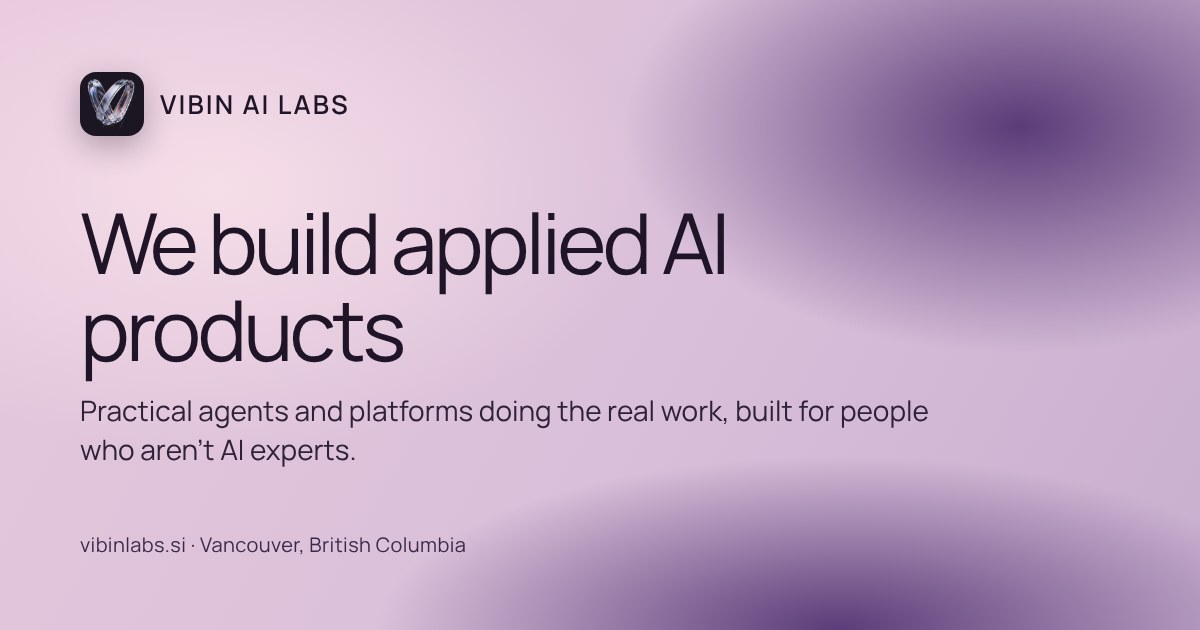
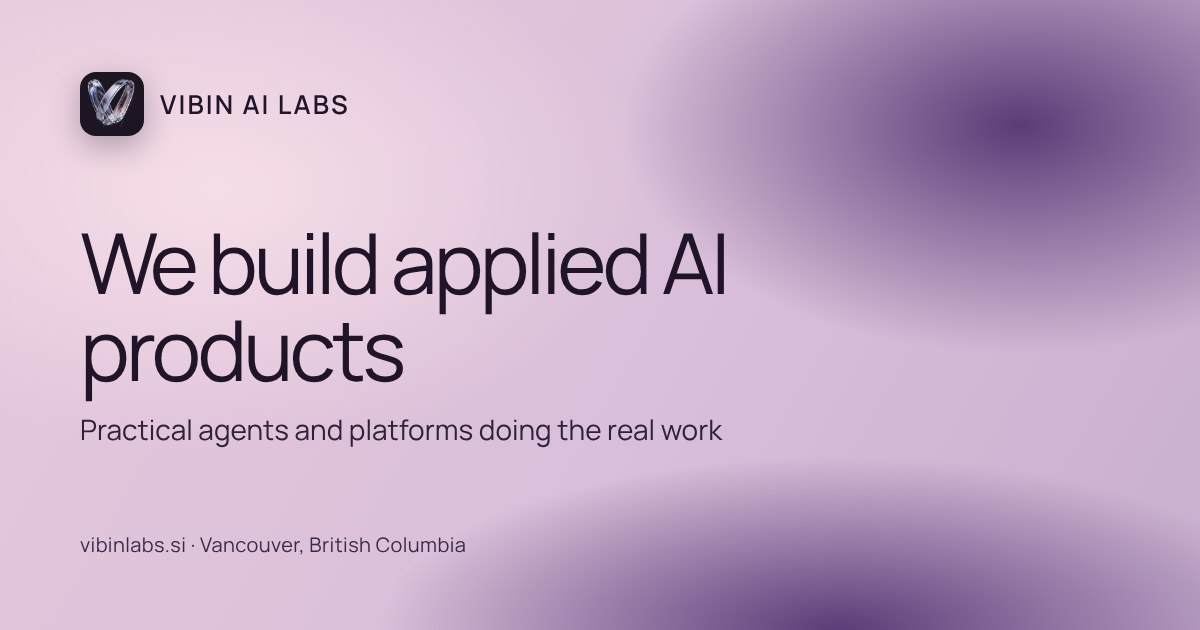
Shorten the home page subtitle
Drop "built for people who aren't AI experts" from the hero subtitle,
the share description and the share image, leaving "Practical agents
and platforms doing the real work".

Claude-Session: https://claude.ai/code/session_01CCiwZUCQAnpXRF69nBccT5

Changed region(s): [[0.0617, 0.3317, 0.7708, 0.754]]

diff --git a/index.html b/index.html
@@ -10,14 +10,14 @@
 <meta property="og:site_name" content="VIBIN AI LABS">
 <meta property="og:url" content="https://vibinlabs.si/">
 <meta property="og:title" content="VIBIN AI LABS">
-<meta property="og:description" content="We build applied AI products. Practical agents and platforms doing the real work, built for people who aren't AI experts.">
+<meta property="og:description" content="We build applied AI products. Practical agents and platforms doing the real work.">
 <meta property="og:image" content="https://vibinlabs.si/share.jpg">
 <meta property="og:image:width" content="1200">
 <meta property="og:image:height" content="630">
 <meta property="og:image:alt" content="VIBIN AI LABS: We build applied AI products">
 <meta name="twitter:card" content="summary_large_image">
 <meta name="twitter:title" content="VIBIN AI LABS">
-<meta name="twitter:description" content="We build applied AI products. Practical agents and platforms doing the real work, built for people who aren't AI experts.">
+<meta name="twitter:description" content="We build applied AI products. Practical agents and platforms doing the real work.">
 <meta name="twitter:image" content="https://vibinlabs.si/share.jpg">
 <link rel="icon" type="image/png" href="favicon.png?v=3">
 <link rel="apple-touch-icon" href="apple-touch-icon.png?v=2">
@@ -291,7 +291,7 @@ html.dark .card:hover{border-color:rgba(255,255,255,.18)}
     <svg aria-hidden="true" xmlns="http://www.w3.org/2000/svg"><filter id="grain"><feTurbulence type="fractalNoise" baseFrequency="0.9" numOctaves="2" stitchTiles="stitch"></feTurbulence><feColorMatrix type="saturate" values="0"></feColorMatrix></filter><rect width="100%" height="100%" filter="url(#grain)"></rect></svg>
     <div class="wrap in">
       <h1>We build applied AI products</h1>
-      <p>Practical agents and platforms doing the real work, built for people who aren't AI experts</p>
+      <p>Practical agents and platforms doing the real work</p>
     </div>
   </section>
 
